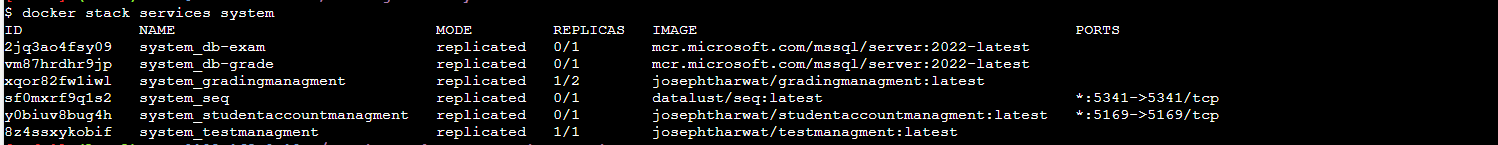
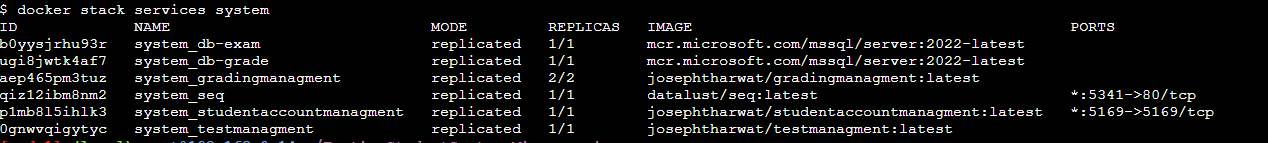
add readme file, add volumes in docker stack

diff --git a/readme.md b/readme.md
@@ -1,11 +1,45 @@
+# TestingStudentSystem_Microservice
 
-#How to run 
-git clone https://github.com/joseph-tharwat/TestingStudentSystem_Microservice-.git
-cd TestingStudentSystem_Microservice-/
+Project implementing microservices project based on the requirements from *Head First Software Architecture book*, Chapter 12.
+
+
+## Architecture & Services
+
+The system is composed of the following services:
+
+- **StudentAccountManagement** — handles student and teacher accounts, registration, login, Auth, ApiGetWay.  
+- **TestManagement** — handles operations about tests (creating, scheduling(not implemented), taking tests).  
+- **GradingManagement** — handles grading logic and computing scores.  
+- **SharedLogger** — cross-cutting logging utility shared by multiple services.
+
+- **RabbitMq** - used for communication between the test service and grade service.
+- **Serilog and seq** - used to log the messegeses and see it in UI.
+- **Yarp** - used as a ApiGetWay, it is installed in **StudentAccountManagement** service
+
+# How to run 
+You need to have docker only to run the project 
+
+### clone the repo:
+
+git clone https://github.com/joseph-tharwat/TestingStudentSystem_Microservice.git
+cd TestingStudentSystem_Microservice/
+
+### start the docker swarm: 
 
 docker swarm init 
+
 if can not run add your ip like this: docker swarm init  --advertise-addr "192.168.0.19"
 
+### deploy the stack:
 docker stack deploy -c docker-stack.yml system
 
+To make sure that the service is up and running:
+docker stack services system
 ![alt text](image.png)
+
+### open the logs:
+You can open seq to see the logs on: localhost:5341/#
+
+### Use the project: 
+you can test the project with the samples in the Simple Examples for testing Docker.txt file
+
